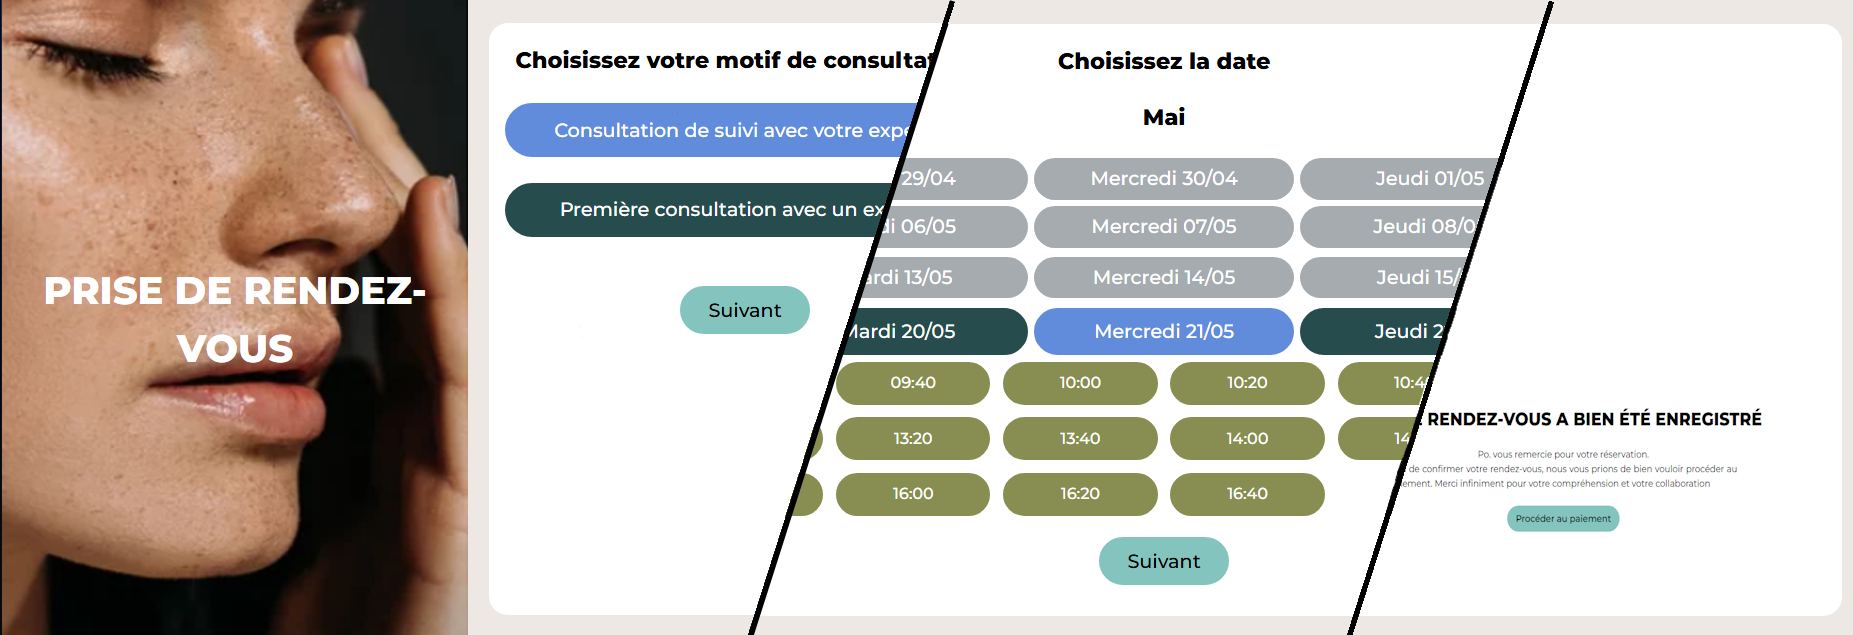
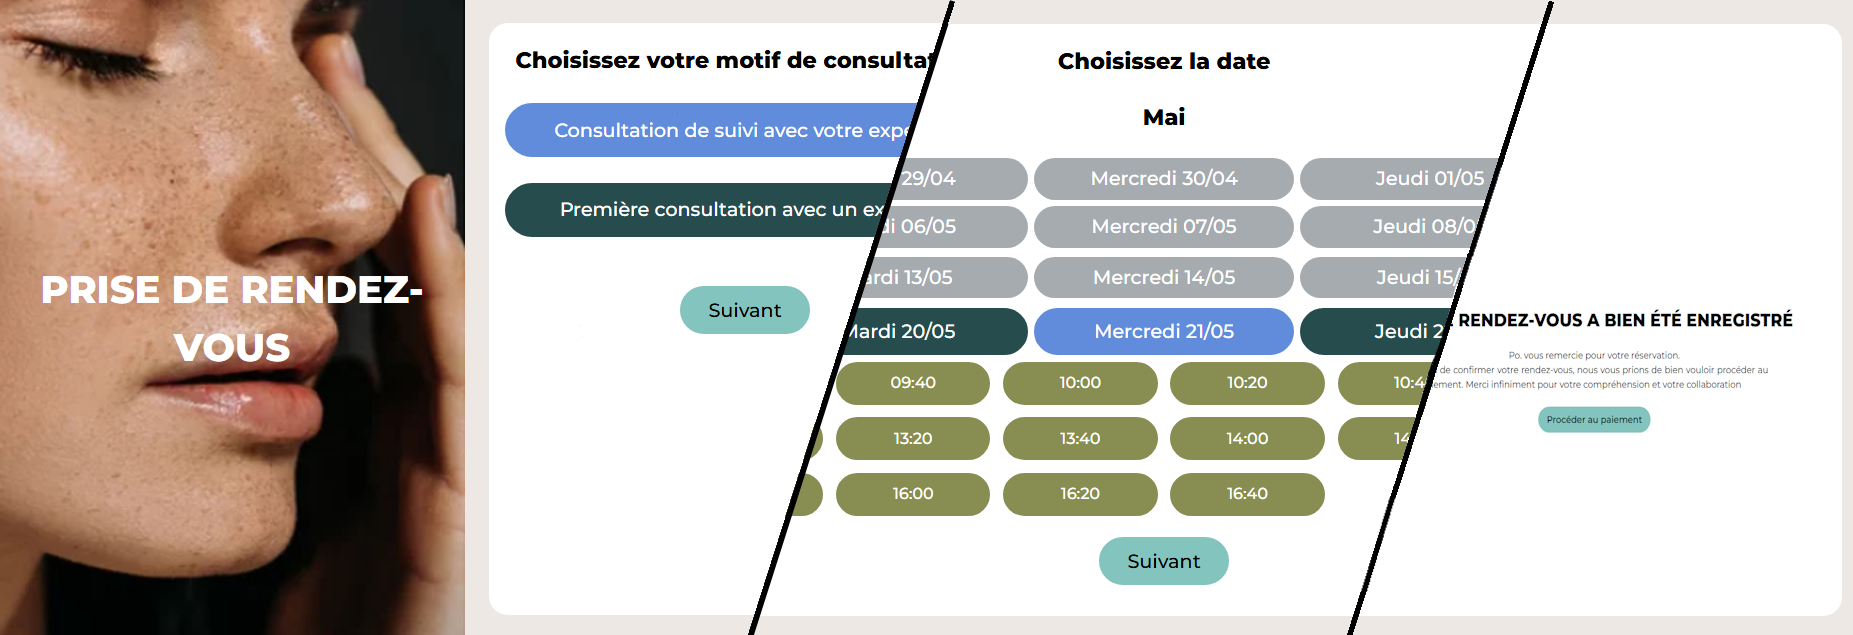
fin poskin page + deploiement prod

diff --git a/src/projet/PoSkin/presentation.js b/src/projet/PoSkin/presentation.js
@@ -7,7 +7,7 @@ const PoSkinPresentation = ()=>{
                 <p className="text-justify mt-4">Le projet a été développé dans le cadre d’un projet scolaire de longue durée (18 mois) réunissant plusieurs classes aux compétences complémentaires (développement, design UX/UI, marketing). Des journées de travail en présentiel, organisées toutes les 4 à 8 semaines selon les rythmes d’alternance, ont permis une réelle coordination interdisciplinaire.</p>
             </div>
             <div className="w-[60%] relative">
-                <img src={"/images/PoSkin/PoSkin_01.png"} alt={"poskin"} className="rounded-[30px]"/>
+                <img src={"/images/PoSkin/PoSkin_01.png"} alt={"poskin"} className="rounded-[30px] w-full h-full"/>
                 <div className="absolute top-0 left-0 w-full h-full flex center">
                     <img src={"/images/PoSkin/PoSkin_logo.png"} alt={"poskin"} />
                 </div>

diff --git a/src/index.js b/src/index.js
@@ -7,6 +7,7 @@ import Home from './Home';
 import Navbar from './Navbar';
 import Memoire44Presentation from './projet/Memoire44/presentation';
 import PoSkinPresentation from './projet/PoSkin/presentation';
+import { SpaceXPresentation } from './projet/SpaceX/presentation';
 
 const App = ()=>{
     return (
@@ -20,6 +21,7 @@ const App = ()=>{
           <Route path="/" element={<Home/>}></Route>
           <Route path="/Memoire44" element={<Memoire44Presentation/>}></Route>
           <Route path="/PoSkin" element={<PoSkinPresentation/>}></Route>
+          <Route path="/SpaceX" element={<SpaceXPresentation/>}></Route>
         </Routes>
  
       </Router>   

diff --git a/src/composant/competence.js b/src/composant/competence.js
@@ -154,9 +154,9 @@ export function SpaceXCard(Tag,size){
         <div className="absolute right-10 top-0 h-full flex center">
             <img src={"/images/spacex.png"} alt={"spacex"} style={{width:"72px"}}/>
         </div>
-        <div className="absolute right-10 bottom-2 ">
-            <div className="bg-green_dark rounded-2xl p-2 text-white font-mt-bold">En savoir plus</div>
-        </div>
+            <div className="absolute right-10 bottom-4 ">
+                <Link to="/SpaceX" className="bg-green_dark rounded-2xl p-2 text-white font-mt-bold hover:cursor-pointer">En savoir plus</Link>
+            </div>
         </div>
     </div>
 }
